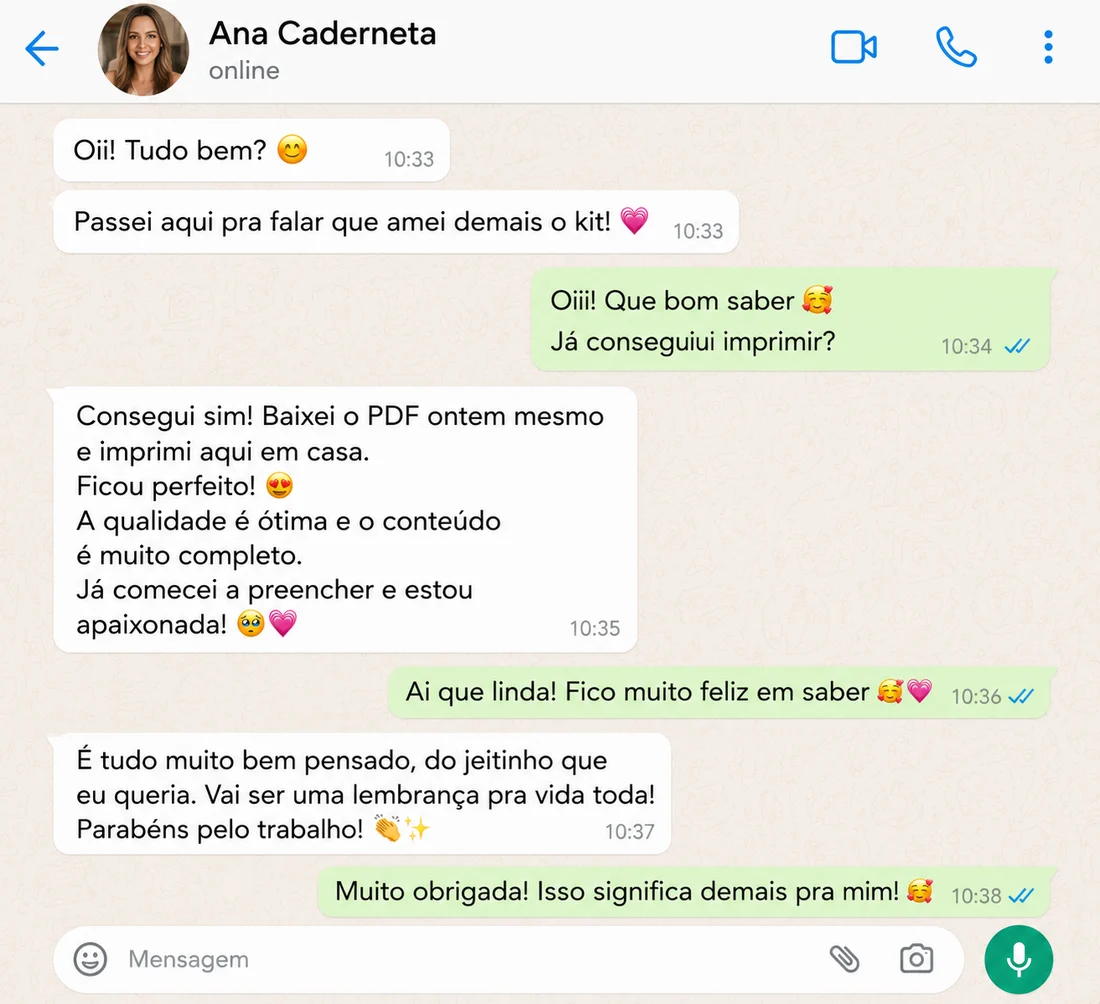
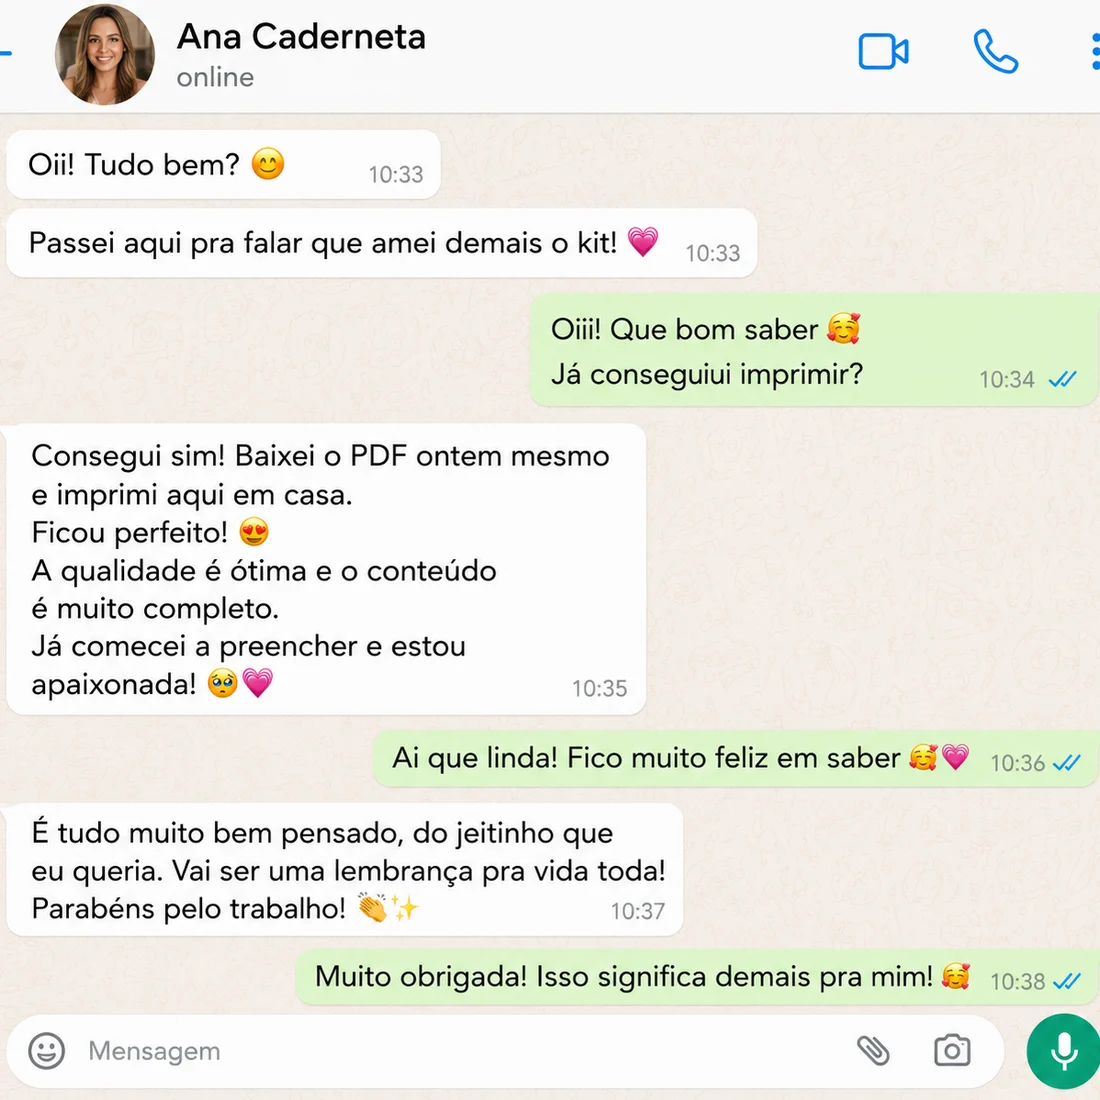
Corrige alinhamento da esteira de depoimentos
Volta a recortar todos os prints em 1:1 -- o da Ana era o único não
quadrado (1313x1198) e isso desalinhava a fileira, deixando cards com
alturas diferentes. Corte de ~4% nas laterais, sem cortar texto.

diff --git a/index.html b/index.html
@@ -296,7 +296,7 @@ button{font-family:inherit;cursor:pointer;}
   overflow:hidden;
   box-shadow:var(--shadow);
 }
-.testi-card img{width:100%;display:block;height:auto;cursor:zoom-in;}
+.testi-card img{width:100%;display:block;aspect-ratio:1/1;object-fit:cover;cursor:zoom-in;}
 .testi-card .cap{
   padding:11px 14px 14px;
   font-size:13px;color:var(--ink-soft);
